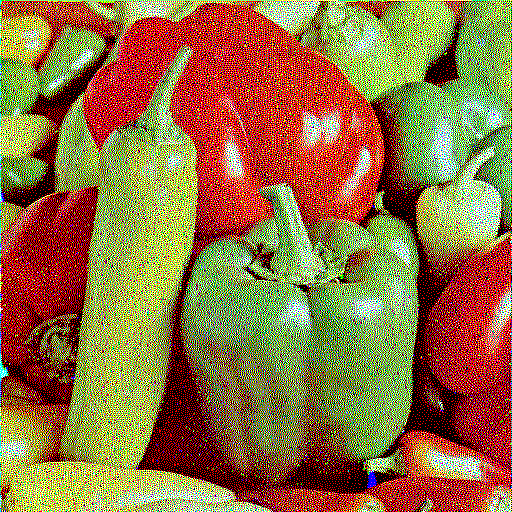
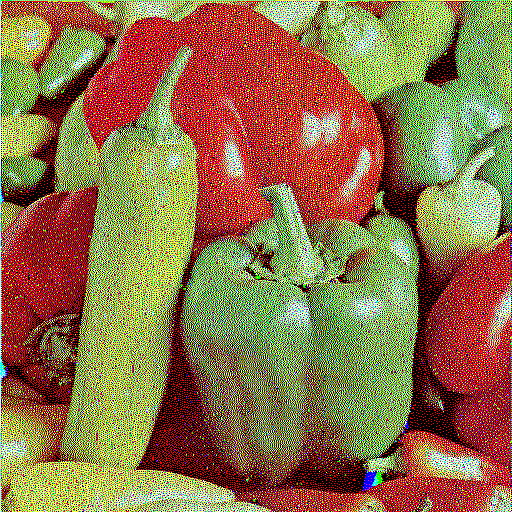
function generic

diff --git a/imagens/proj1/proj1.py b/imagens/proj1/proj1.py
@@ -5,6 +5,30 @@ import matplotlib.pyplot as plt
 import os
 import glob
 
+floyd = np.array([[0, 0, 7/16],
+           [3/16, 5/16, 1/16]]).reshape(2,3)
+
+stevenson = np.array([[0 , 0 , 0 , 0 , 0 , 32/200 , 0],
+            [12/200, 0 , 26/200 , 0 , 30/200 , 0 , 16/200],
+            [0 , 12/200 , 0 , 26/200 , 0 , 12/200 , 0],
+            [5/200 , 0 , 12/200 , 0 , 12/200 , 0 , 5/200]]).reshape(4,7)
+
+burkes = np.array([[0 , 0 , 0 , 8/32 , 4/32],
+         [2/32 , 4/32 , 8/32 , 4/32 , 2/32]]).reshape(2,5)
+
+sierra = np.array([[0 , 0 , 0 , 5/32 , 3/32],
+            [2/32 , 4/32 , 5/32 , 4/32 , 2/32],
+            [0 , 2/32 , 3/32 , 2/32 , 0]]).reshape(3, 5)
+
+stucki = np.array([[0 , 0 , 0, 8/32 , 4/42],
+            [2/42 , 4/42 , 8/42 , 4/42 , 2/32],
+            [1/42 , 2/42 , 4/42 , 2/42 , 1/42]]).reshape(3,5)
+
+jarvis = np.array([[0 , 0 , 0, 7/48 , 5/48],
+            [3/48 , 5/48 , 7/48 , 5/48 , 3/48],
+            [1/48 , 3/48 , 5/48 , 3/48 , 1/48]]).reshape(3,5)
+
+
 #Getting all files
 def getImages(color, image_dir):
     data_path = os.path.join(image_dir, '*g')
@@ -13,7 +37,7 @@ def getImages(color, image_dir):
     names = []
     if (color=="colorful"):
         for fl in files:
-            img = cv2.cvtColor(cv2.imread(fl), cv2.COLOR_BGR2RGB)
+            img = cv2.imread(fl, cv2.IMREAD_COLOR)
             data.append(img)
             names.append(os.path.splitext(os.path.basename(fl))[0])
     elif(color == "gray"):
@@ -25,7 +49,8 @@ def getImages(color, image_dir):
         print("please specify color type")
     return data, names
 
-def goThroughGray(matrix, bordersize):
+def goThroughGray(matrix, bordersize, filtro):
+    startOfFilter = math.floor(filtro.shape[1]/2)
 
     (row,column) = matrix.shape
     print(row, column)
@@ -34,55 +59,67 @@ def goThroughGray(matrix, bordersize):
     row-= bordersize
     column-=bordersize
 
+    interval = [column, bordersize]
 
 
     # for i in range(bordersize, row):
     #     for j in range(bordersize, column):
     #         print(matrix[i,j])
 
+    one = 1
     #origem fica em cima
     for i in range(bordersize, row):#i row, j column
     #for i in range(0, row):#i row, j column
-        if(i%2!=0):
+        #if(i%2!=0):
             # for j in reversed(range(bordersize, column)):
-            for j in range(column-1, bordersize-1, -1):
-            #for j in range(column-1, -1, -1):
-                #print(j)
-                if(matrix[i,j] < 128):
-                    matrixAux[i,j] = 0
-                else:
-                    matrixAux[i,j] = 255
-                err = float(matrix[i,j] - matrixAux[i,j])
-                #print(matrix[i,j], matrixAux[i,j], err)
-                #if(i>0 and j-1<column-1):
-                matrix[i,j-1] += (7/16)*err
-                #if(i+1<row-1):
-                    #if(j+1<column-1):
-                matrix[i+1,j+1] += (3/16)*err
-                    #if(j<column-1):
-                matrix[i+1, j] += (5/16)*err
-                    #if(j-1<column-1):
-                matrix[i+1,j-1] += (1/16)*err
+        temp = interval[0]
+        interval[0] = interval[1]
+        interval[1] = temp
+        one = -one
+        #print(i, interval[1], interval[0], one)
+        for j in range(interval[1], interval[0], one):
+        #for j in range(column-1, -1, -1):
+            #print(j)
+            if(matrix[i,j] < 128):
+                matrixAux[i,j] = 0
+            else:
+                matrixAux[i,j] = 255
+            err = float(matrix[i,j] - matrixAux[i,j])
+            #print(err)
+            #print(matrix[i,j], matrixAux[i,j], err)
+            #if(i>0 and j-1<column-1):
+            # matrix[i,j+one] += (7/16)*err
+            # #if(i+1<row-1):
+            #     #if(j+1<column-1):
+            # matrix[i+1,j-one] += (3/16)*err
+            #     #if(j<column-1):
+            # matrix[i+1, j] += (5/16)*err
+            #     #if(j-1<column-1):
+            # matrix[i+1,j+one] += (1/16)*err
+
+            for g in range(0, filtro.shape[0]):
+                for k in range(0, filtro.shape[1]):
+                    matrix[i+g, j+((k-startOfFilter)*one)] += filtro[g,k] * err
             
-        else:
-            for j in range(bordersize, column):
-            #for j in range(0, column):
-                #print(j)
-                if(matrix[i,j] < 128):
-                    matrixAux[i,j] = 0
-                else:
-                    matrixAux[i,j] = 255
-                err = float(matrix[i,j] - matrixAux[i,j])
-                #print(err)
-                #if(i>0 and j+1<column-1):
-                matrix[i, j+1] += (7/16)*err
-                #if(i+1<row-1):
-                    #if(j-1<column-1):
-                matrix[i+1,j-1] += (3/16)*err
-                    #if(j<column-1):
-                matrix[i+1, j] += (5/16)*err
-                    #if(j+1<column-1):
-                matrix[i+1,j+1] += (1/16)*err
+        # else:
+        #     for j in range(bordersize, column):
+        #     #for j in range(0, column):
+        #         #print(j)
+        #         if(matrix[i,j] < 128):
+        #             matrixAux[i,j] = 0
+        #         else:
+        #             matrixAux[i,j] = 255
+        #         err = float(matrix[i,j] - matrixAux[i,j])
+        #         #print(err)
+        #         #if(i>0 and j+1<column-1):
+        #         matrix[i, j+1] += (7/16)*err
+        #         #if(i+1<row-1):
+        #             #if(j-1<column-1):
+        #         matrix[i+1,j-1] += (3/16)*err
+        #             #if(j<column-1):
+        #         matrix[i+1, j] += (5/16)*err
+        #             #if(j+1<column-1):
+        #         matrix[i+1,j+1] += (1/16)*err
 
 
     # plt.axis("off")
@@ -101,11 +138,12 @@ def goThroughGray(matrix, bordersize):
     #     for j in range(bordersize, column):
     #         print(matrixAux[i,j])
 
+
     return matrixAux
 
 
 
-def testColor(title, matrixColor):
+def testColor(title, matrixColor, filtro):
    
     #matrixColor = cv2.cvtColor(cv2.imread("train.png"), cv2.COLOR_BGR2RGB)
    
@@ -124,14 +162,14 @@ def testColor(title, matrixColor):
     # plt.close("all")
 
     #chama a funcao pras 3
-    matrixR = goThroughGray(matrixR, bordersize)
-    matrixG = goThroughGray(matrixG, bordersize)
-    matrixB = goThroughGray(matrixB, bordersize)
+    matrixR = goThroughGray(matrixR, bordersize, filtro)
+    matrixG = goThroughGray(matrixG, bordersize, filtro)
+    matrixB = goThroughGray(matrixB, bordersize, filtro)
 
 
    
     
-    matrixColor = cv2.merge((matrixR, matrixG, matrixB))
+    matrixColor = cv2.merge((matrixB, matrixG, matrixR))
     final = matrixColor[bordersize:matrixColor.shape[1]-bordersize,bordersize:matrixColor.shape[0]-bordersize].copy()
     # plt.title("color")
     # plt.axis("off")
@@ -141,8 +179,7 @@ def testColor(title, matrixColor):
     cv2.imwrite(title + 'ColorFloydSteinberg.png', cv2.bitwise_not(final))
 
 
-
-def testGray(title, matrixGray):
+def testGray(title, matrixGray, filtro):
     #goThroughGray()
     #matrixGray = cv2.cvtColor(cv2.imread("baboon.png"), cv2.COLOR_BGR2GRAY)
     #matrixColor = cv2.imread('baboon.png', cv2.IMREAD_COLOR)
@@ -162,7 +199,7 @@ def testGray(title, matrixGray):
     # plt.close("all")
 
    
-    matrixGray = goThroughGray(matrixGray, bordersize)
+    matrixGray = goThroughGray(matrixGray, bordersize, filtro)
 
     #cut border out
     matrixFinal = matrixGray[bordersize:matrixGray.shape[1]-bordersize,bordersize:matrixGray.shape[0]-bordersize].copy()
@@ -184,17 +221,19 @@ if __name__ == '__main__':
     #Color images
     data, names = getImages("colorful", "/home/marcelomartins/Documentos/8sem/imagens/proj1/images")
     for i in range(len(data)):
-        testColor(names[i], data[i])
+        testColor(names[i], data[i], floyd)
 
-    # #Gray images
-    # data, names = getImages("gray", "/home/marcelomartins/Documentos/8sem/imagens/proj1/images")
-    # for i in range(len(data)):
-    #     testGray(names[i], data[i])
+    #Gray images
+    data, names = getImages("gray", "/home/marcelomartins/Documentos/8sem/imagens/proj1/images")
+    for i in range(len(data)):
+        testGray(names[i], data[i], floyd)
     
 
-    # img = cv2.cvtColor(cv2.imread("images/baboon.png"), cv2.COLOR_BGR2RGB)
-    # testColor("teste", img)
-    # plt.title("color")
+    #print(jarvis.shape)
+
+    # img = cv2.cvtColor(cv2.imread("images/baboon.png"), cv2.IMREAD_COLOR)
+    # testColor("teste", img, floyd)
+
     # plt.axis("off")
     # plt.imshow(img)
     # plt.waitforbuttonpress(0)
